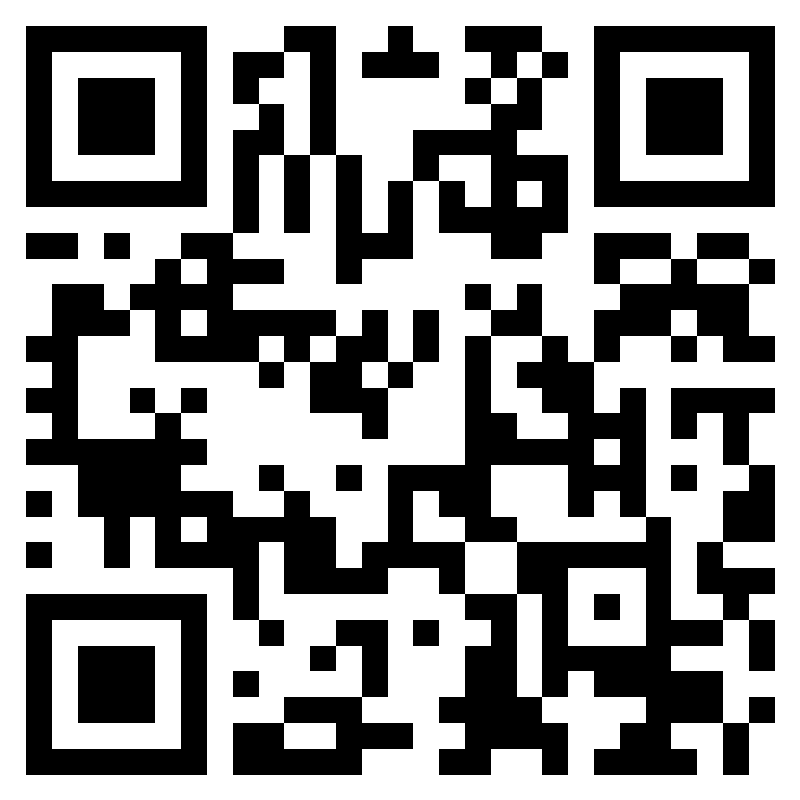
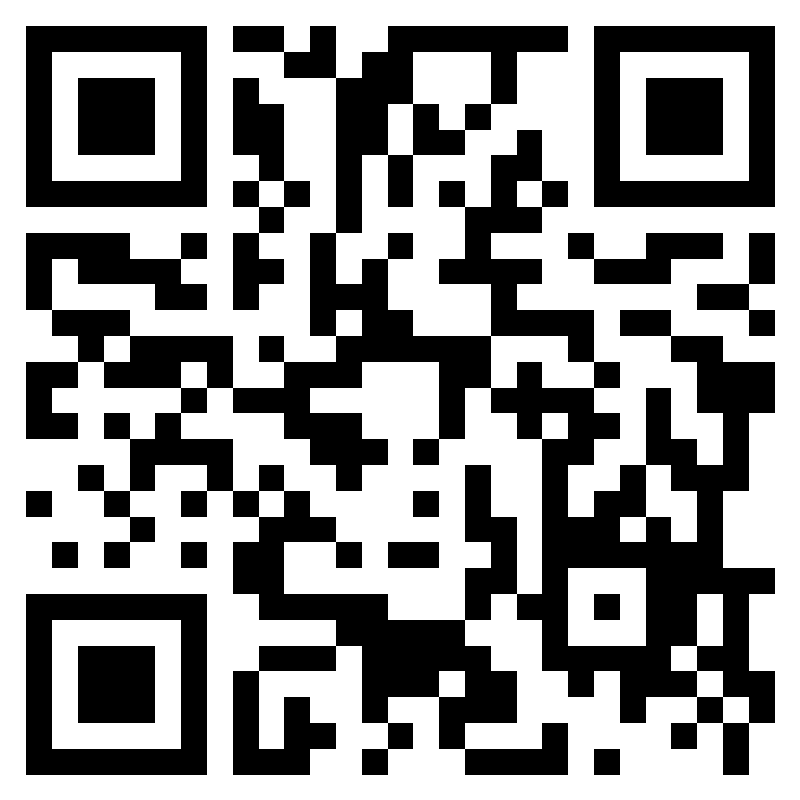
Update link naar slotopmerkingen

diff --git a/slides/src/08_eindoplevering.md b/slides/src/08_eindoplevering.md
@@ -9,7 +9,7 @@ Project Informatica / Q-highschool / Bijeenkomst 8
 - Product owner: zet de presentatie in Teams
 - Scrum master: zorg dat alles is ingeleverd
 - Slotopmerkingen:\
-  [forms.office.com/e/k1rpnCx2mF](https://forms.office.com/e/k1rpnCx2mF)
+  [forms.office.com/e/HwF28NTqdS](https://forms.office.com/e/HwF28NTqdS)
 
 <img class="r-stretch" src="assets/08_eindoplevering/slotopmerkingen_qr.png" />
 
